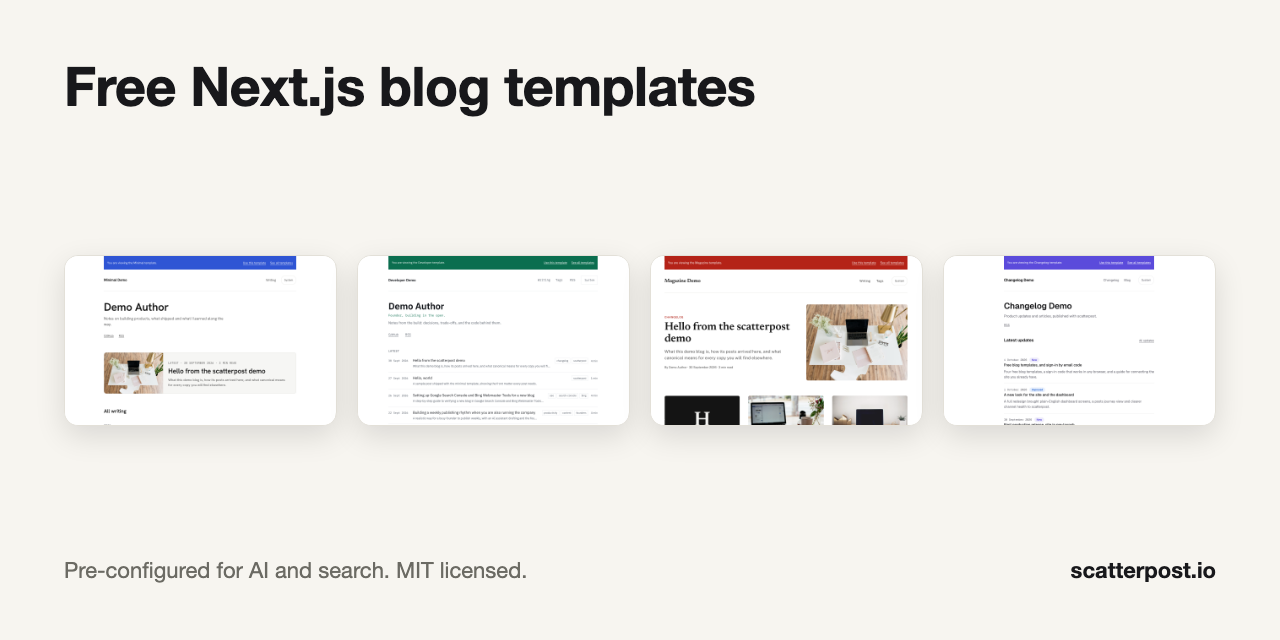
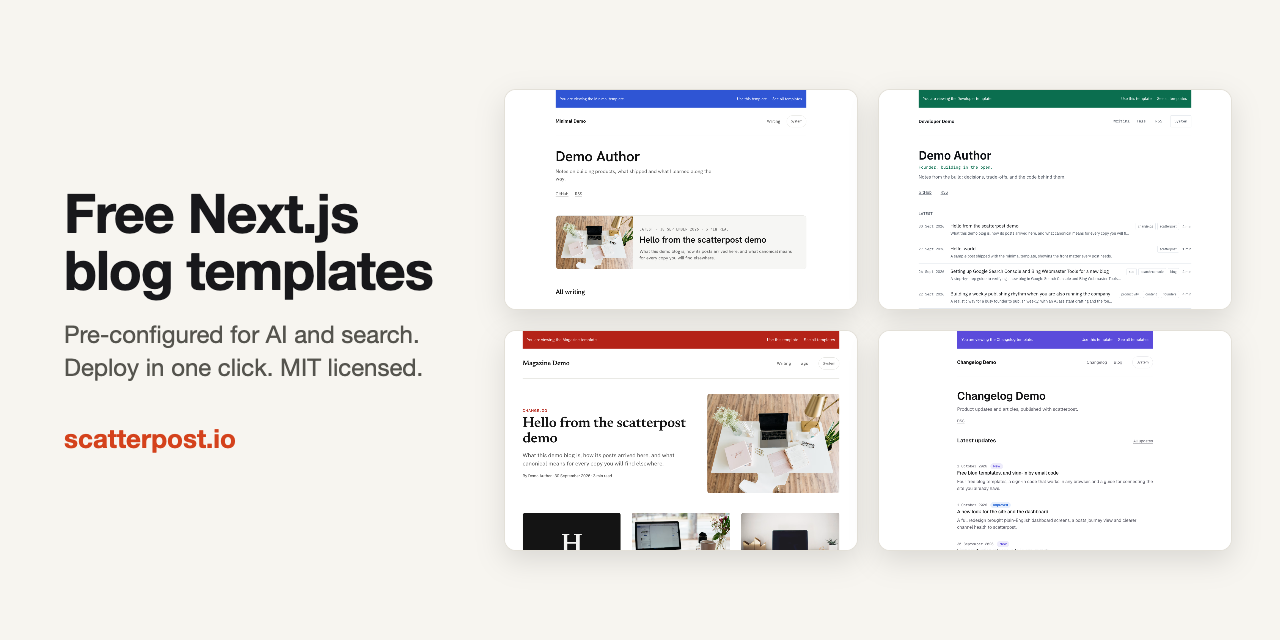
Changelog demo: sample entries describe features only, no internal detail; larger social preview layout

diff --git a/changelog/demo-content/posts/new-design-for-site-and-dashboard.md b/changelog/demo-content/posts/new-design-for-site-and-dashboard.md
@@ -2,17 +2,17 @@
 title: "A new look for the site and the dashboard"
 slug: "new-design-for-site-and-dashboard"
 date: "2026-10-01"
-description: "A full redesign brought plain-English dashboard screens, a posts journey view and clearer channel health to scatterpost."
+description: "A full redesign brought plain-English dashboard screens, a journey view for every post and clearer channel health to scatterpost."
 tags: ["changelog", "improved", "sample-entry"]
 scatterpostId: "demo-new-design-for-site-and-dashboard"
 ---
 
-Sample entry, adapted from scatterpost's own public changelog, shown here to demonstrate this template's `/changelog` timeline.
+Sample entry describing scatterpost, shown here to demonstrate this template's `/changelog` timeline.
 
-A full redesign brought plain-English dashboard screens, a posts journey view and clearer channel health to scatterpost.
+A full redesign brought plain-English dashboard screens, a journey view for every post and clearer channel health to scatterpost.
 
-- The site and the dashboard have a new design, with a light and dark mode you can switch.
-- The dashboard now opens on a plain-English getting-started checklist and a weekly timeline of scheduled and published posts.
-- Posts show a journey view with pipeline status for each platform, and the Channels page became a hub showing the health of every connection.
-- A failed publication to a single channel can now be retried on its own, and each channel has a test-connection check.
-- Team approvals now show who asked, why something was rejected, and exactly what changed in the post.
+- A new design for the site and the dashboard, with light and dark mode.
+- The dashboard opens on a plain-English getting-started checklist and a weekly timeline of scheduled and published posts.
+- Each post has a journey view showing where it has been published, and the Channels page shows how every connection is doing.
+- Retry a single channel without republishing everywhere, and check any connection with one click.
+- Team approvals show who asked, why a post was sent back, and what changed.

diff --git a/changelog/demo-content/posts/publishing-pipeline-live.md b/changelog/demo-content/posts/publishing-pipeline-live.md
@@ -7,12 +7,12 @@ tags: ["changelog", "new", "sample-entry"]
 scatterpostId: "demo-publishing-pipeline-live"
 ---
 
-Sample entry, adapted from scatterpost's own public changelog, shown here to demonstrate this template's `/changelog` timeline.
+Sample entry describing scatterpost, shown here to demonstrate this template's `/changelog` timeline.
 
 Your AI assistant writes once; scatterpost publishes to your own site first, then everywhere else, with every copy pointing back to you.
 
-- Your AI assistant drafts once, and scatterpost publishes to your own blog first, before anywhere else.
-- Cross-posting to Dev.to, Hashnode, your LinkedIn profile, Bluesky, Mastodon and X is built and working, with your own developer keys for X.
-- Every copy points back to your own site as the original, never to whichever platform happened to publish first.
-- Your AI assistant (Claude, Claude Code, Cursor or any MCP client) can draft, publish, schedule and check results straight from the chat.
-- Scheduled posts go out on time, and a failed attempt is retried automatically before it asks for your attention.
+- Your AI assistant drafts a post once, and scatterpost publishes it to your own blog before anywhere else.
+- Cross-posting to Dev.to, Hashnode, your LinkedIn profile, Bluesky, Mastodon and X, each copy shaped to suit the platform.
+- Every copy points back to your own site as the original, so readers and search engines know where it started.
+- Works with Claude, Claude Code, Cursor or any MCP client: draft, publish, schedule and check results without leaving the chat.
+- Scheduled posts go out on time, and if a platform has a hiccup, scatterpost tries again before asking for your attention.

diff --git a/changelog/demo-content/posts/free-templates-and-easier-sign-in.md b/changelog/demo-content/posts/free-templates-and-easier-sign-in.md
@@ -7,11 +7,10 @@ tags: ["changelog", "new", "sample-entry"]
 scatterpostId: "demo-free-templates-and-easier-sign-in"
 ---
 
-Sample entry, adapted from scatterpost's own public changelog, shown here to demonstrate this template's `/changelog` timeline.
+Sample entry describing scatterpost, shown here to demonstrate this template's `/changelog` timeline.
 
 Four free blog templates, a sign-in code that works in any browser, and a guide for connecting the site you already have.
 
-- Four free, open blog templates (minimal, developer, magazine and changelog) for founders who do not have a blog yet, each ready to deploy in one click.
-- Signing in now works with an emailed one-time code as well as a magic link, so it works in any browser.
-- A new guide shows how to connect the site you already have, including WordPress, Webflow and Ghost sites.
-- Security improvements to sign-in.
+- Four free blog templates (minimal, developer, magazine and changelog) for founders without a blog yet, pre-configured for AI and search and ready to deploy in one click.
+- Sign in with a code sent to your email, as well as a link, so it works in any browser.
+- A new guide for connecting the site you already have, including WordPress, Webflow and Ghost.

diff --git a/changelog/demo-content/posts/first-production-release.md b/changelog/demo-content/posts/first-production-release.md
@@ -7,10 +7,10 @@ tags: ["changelog", "new", "sample-entry"]
 scatterpostId: "demo-first-production-release"
 ---
 
-Sample entry, adapted from scatterpost's own public changelog, shown here to demonstrate this template's `/changelog` timeline.
+Sample entry describing scatterpost, shown here to demonstrate this template's `/changelog` timeline.
 
 scatterpost.io is live, showing a pre-launch page while sign-ups are not open yet.
 
 - scatterpost.io is live, with the publishing pipeline ready for launch.
 - Until sign-ups open, the site shows a pre-launch page.
-- Your AI assistant now gets clearer guidance from scatterpost, including what to do next when something goes wrong.
+- Your AI assistant gets clearer guidance from scatterpost, including a plain next step when something needs fixing.
